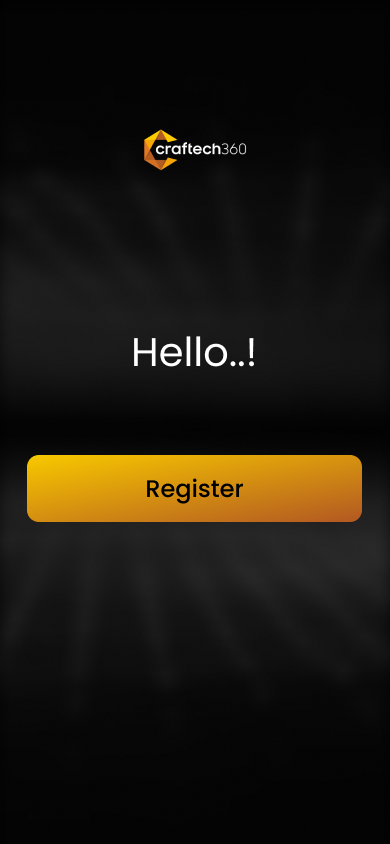
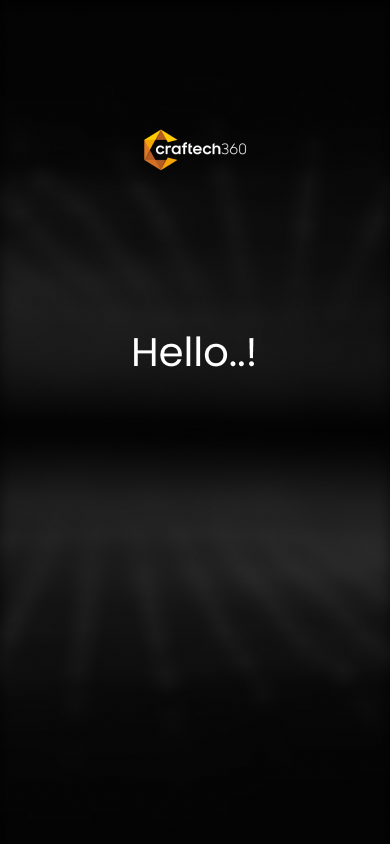
Add Register UI

Changed region(s): [[0.0615, 0.5237, 0.9538, 0.6161]]

diff --git a/assets/css/reg.css b/assets/css/reg.css
@@ -15,11 +15,18 @@ body {
 
 
 #next1{
+    text-align: center;
+    font-size: xx-large;
+    font-weight: 500;
     width: 86%;
     height: 8%;
     position: absolute;
     top: 54%;
     left: 7%;
+    width: 335px;
+    height: 67px;
+    border-radius: 12px;
+    background-image: linear-gradient(to bottom right, #F8C800, #B55C22);
 }
 
 #captureScreen{
@@ -45,9 +52,9 @@ canvas{
     position: absolute;
     top: 21%;
     left: -5%;
-    /* transform: rotate(90deg); */
+    /* transform: rotate(90deg);
     height: 21em;
-    width: 27em;
+    width: 27em; */
 }
 
 
@@ -57,33 +64,47 @@ canvas{
 }
 
  #next{
+    background-image: linear-gradient(to bottom right, #F8C800, #B55C22);
     position: absolute;
-    bottom: 2em;
+    bottom: 1em;
     left: 1.5em;
-    width: 20em;
+    width: 9em;
     height: 70px;
     margin: 10px;
+    border-radius: 12px;
+    text-align: center;
+    font-size: xx-large;
+    font-weight: 500;
+    padding: 10px 0 0 0;
+
 }
 
 
 #Retake{
+    background-image: linear-gradient(to bottom right, #F8C800, #B55C22);
     position: absolute;
-    bottom: 7.5em;
-    left: 8.5em;
-    width: 104px;
+    bottom: 4em;
+    left: 4em;
+    width: 4em;
     height: 45px;
     margin: 10px;
+    border-radius: 12px;
+    text-align: center;
+    font-size: xx-large;
+    font-weight: 500;
 }
 
 #startbutton{
+    background-image: linear-gradient(to bottom right, #F8C800, #B55C22);
     position: absolute;
     bottom: 12em;
     left: 9.5em;
     width: 70px;
     height: 70px;
     margin: 10px;
-}
+    border-radius: 50%;
 
+}
 
 #line1{
     display: flex;

diff --git a/views/reg.html b/views/reg.html
@@ -15,11 +15,11 @@
         <!-- SCREEN 1 -->
         <div id="container1">
             <img src="../assets/images/bgs/Phone Screen 1.png" alt="">
-            <div id="next1" onclick="start()"></div>
+            <div id="next1" onclick="start()">Register Here</div>
         </div>
 
         <div id="container2"  style="display: none;">
-            <img id="captureScreen" width="390px" height="844px" src="../assets/images/bgs/PhoneScreen2.png" alt="">
+            <!-- <img id="captureScreen" width="390px" height="844px" src="../assets/images/bgs/PhoneScreen2.png" alt=""> -->
             <div id="camera">
                 <video id="video"></video>
                 <canvas id="canvas" style="display: none;"></canvas>
@@ -28,10 +28,10 @@
                         <div id="startbutton" ></div>
                     <!-- </div> -->
                     <!-- <div id="line1"> -->
-                        <div id="Retake" onclick="retake()"></div>
+                        <div id="Retake" onclick="retake()">Retake</div>
                     </div>
                     <!-- <div id="line2"> -->
-                        <div id="next" onclick="regPage()"></div>
+                        <div id="next" onclick="regPage()">Submit</div>
                     </div>
                 <!-- </div> -->
             </div>
